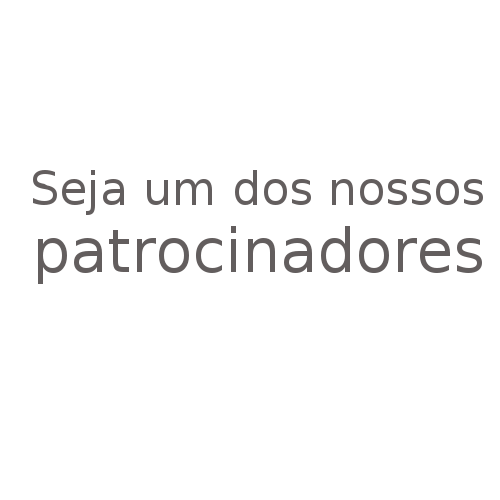
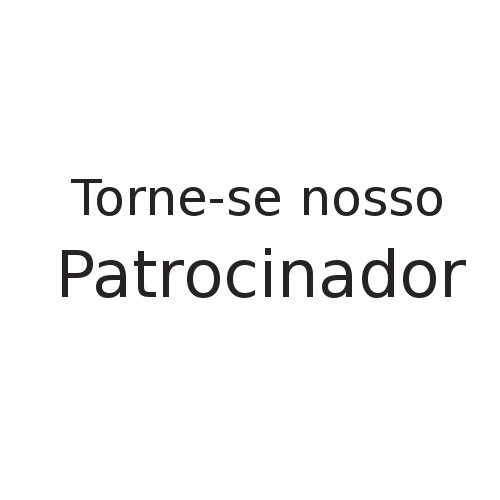
Add new sponsors in website

Changed region(s): [[0.06, 0.33, 0.96, 0.6]]

diff --git a/app/index.html b/app/index.html
@@ -441,21 +441,70 @@
           <h2 class="text-center">Patrocinadores</h2>
         </div>
         <div class="row">
-          <h3 class="col-md-12">Gold</h3>
+          <h3 class="col-md-12"><span class="parallax-text blue">GOLD</span></h3>
         </div>
         <div class="row">
-          <div class="col-md-3 sponsors-item text-center">
-            <a href="http://hemobile.com.br" rel="external" >
+
+          <div class="col-md-3 col-sm-4 col-xs-6">
+            <div class="thumbnail">
+              <div class="caption text-center blue">
+                <h4 class="bold no-opacity">ThoughtWorks</h4>
+                <hr/>
+                <p><a href="http://www.thoughtworks.com/pt/" class="btn btn-default external tooltip" title="ThoughtWorks">Site</a>
+              </div>
+              <img alt="ThoughtWorks" src="img/sponsors/thoughtworks.png" width="290" height="290" class="img-thumbnail img-responsive" />
+            </div>
+          </div>
+        </div>
+
+        <div class="row">
+          <h3 class="col-md-12"><span class="parallax-text green">BRONZE</span></h3>
+        </div>
+
+        <div class="row">
+          <div class="col-md-3 col-sm-4 col-xs-6">
+            <div class="thumbnail">
+              <div class="caption text-center green">
+                <h4 class="bold no-opacity">HE:Mobile</h4>
+                <hr/>
+                <p><a href="http://hemobile.com.br" class="btn btn-default external tooltip" title="HE:Mobile">Site</a>
+              </div>
               <img alt="HE:Mobile" src="img/sponsors/he-mobile.png" width="290" height="290" class="img-thumbnail img-responsive" />
-              <p class="corner-description">HE:Mobile</p>
-            </a>
+            </div>
           </div>
-          <div class="col-md-3 sponsors-item text-center">
-            <a href="mailto:linguagil@linguagil.com.br">
-              <img alt="Seja um dos patrocinadores" src="img/sponsors/be-a-sponsor.png" width="290" height="290" class="img-thumbnail img-responsive sponsors-item" />
-              <p class="corner-description">Seja um dos patrocinadores</p>
-            </a>
+
+          <div class="col-md-3 col-sm-4 col-xs-6">
+            <div class="thumbnail">
+              <div class="caption text-center green">
+                <h4 class="bold no-opacity">Oncedev</h4>
+                <hr/>
+                <p><a href="http://oncedev.com.br" class="btn btn-default external tooltip" title="Oncedev">Site</a>
+              </div>
+              <img alt="Oncedev" src="img/sponsors/oncedev.png" width="290" height="290" class="img-thumbnail img-responsive" />
+            </div>
           </div>
+
+          <div class="col-md-3 col-sm-4 col-xs-6">
+            <div class="thumbnail">
+              <div class="caption text-center green">
+                <h4 class="bold no-opacity">Quebec</h4>
+                <hr/>
+                <p><a href="http://www.quebecnacabeca.com/pt/" class="btn btn-default external tooltip" title="Quebec">Site</a>
+              </div>
+              <img alt="Quebec" src="img/sponsors/quebec.png" width="290" height="290" class="img-thumbnail img-responsive" />
+            </div>
+          </div>
+
+          <div class="col-md-3 col-sm-4 col-xs-6">
+            <div class="thumbnail">
+              <div class="caption text-center green">
+                <h4>Torne-se nosso patrocinador</h4>
+                <p><a href="mailto:linguagil@linguagil.com.br" class="btn btn-default tooltip" title="HE:Mobile">Entre em contato</a>
+              </div>
+              <img alt="Torne-se nosso patrocinador" src="img/sponsors/be-a-sponsor.png" width="290" height="290" class="img-thumbnail img-responsive sponsors-item" />
+            </div>
+          </div>
+
         </div>
       </div>
     </div>

diff --git a/app/js/main.js b/app/js/main.js
@@ -12,12 +12,23 @@
   FastClick.attach(document.body);
 
   //  Add target blank in realtime for htmllint validation
-  $('a[rel="external"]').attr('target','_blank');
+  $('a[rel="external"], .external').attr('target','_blank');
 
   $('#menu-close, #menu-toggle, .sidebar-nav li a').click(function(e) {
     e.preventDefault();
     $('#sidebar-wrapper').toggleClass('active');
   });
+
+  $('.tooltip').tooltip();
+
+  $('.thumbnail').hover(
+    function(){
+      $(this).find('.caption').slideDown(250); //.fadeIn(250)
+    },
+    function(){
+      $(this).find('.caption').slideUp(250); //.fadeOut(205)
+    }
+  );
 
   /**
    * Sponsors

diff --git a/app/css/style.css b/app/css/style.css
@@ -18,6 +18,9 @@ h2{
   font-family: "Open Sans","Arial",sans-serif;
 }
 
+.no-opacity{
+  opacity: 1 !important;
+}
 .vert-text {
   display: table-cell;
   vertical-align: middle;
@@ -646,6 +649,27 @@ i.scroll:hover {
   margin-top: 5px;
 }
 /* Timeline */
+
+
+.thumbnail {
+  position:relative;
+  overflow:hidden;
+}
+
+.caption {
+  position:absolute;
+  top:0;
+  right:0;
+  width:100%;
+  height:100%;
+  padding:2%;
+  display: none;
+  text-align:center;
+  opacity: 0.8;
+  color:#fff !important;
+  z-index:2;
+}
+
 
 @media (max-width: 768px) {
   .icon {
